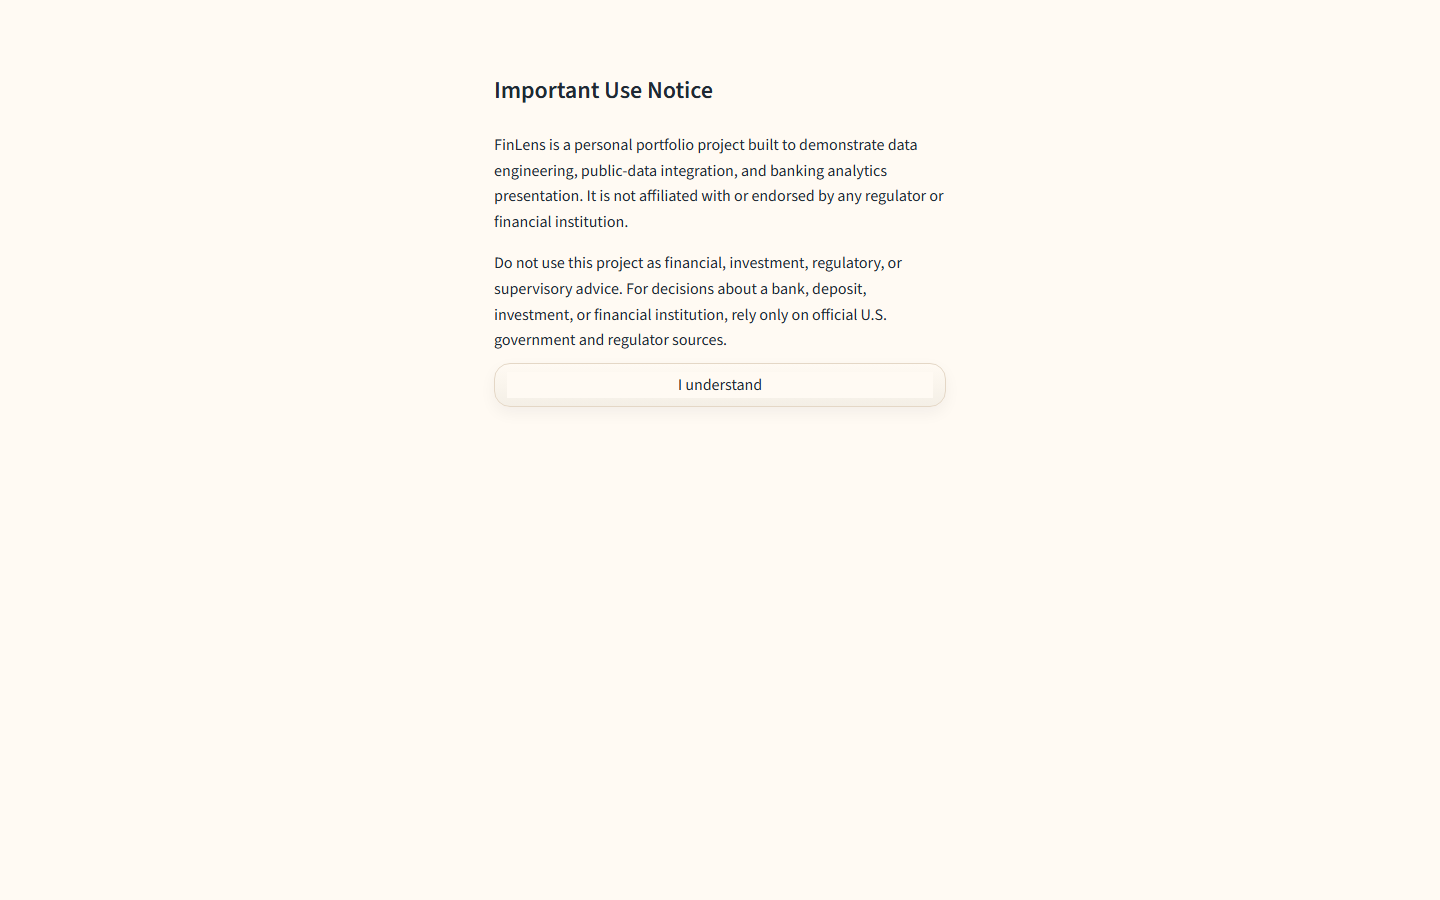
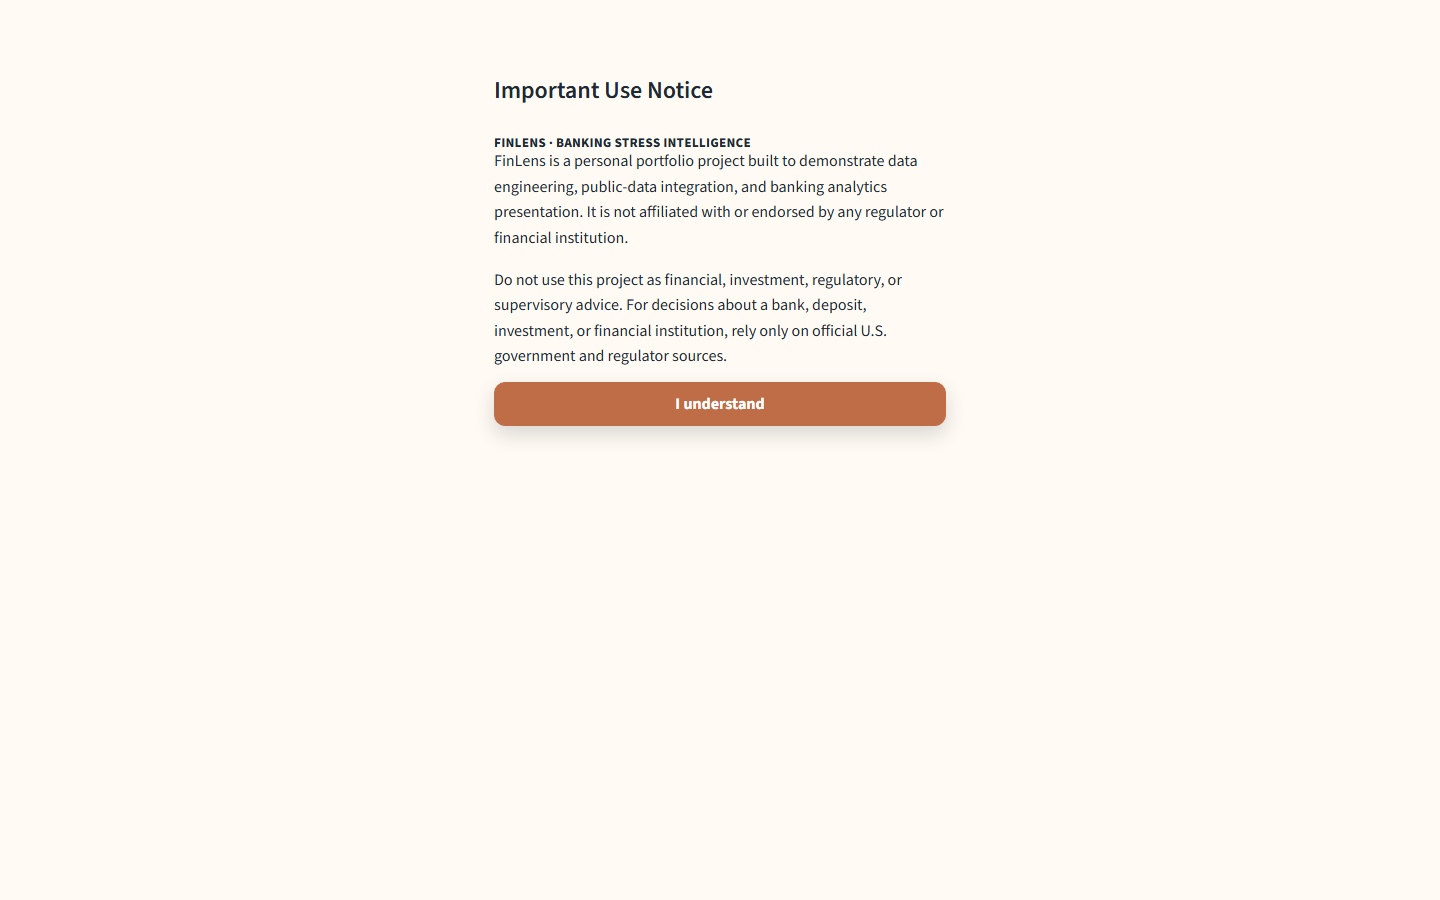
Use-notice gate: filled accent CTA + brand line (first-impression polish)
The "I understand" button was a low-affordance ghost (white-on-white). Root cause: Streamlit's
primary button keeps an inner emotion wrapper with a white fill over the button's accent bg.
Fixed with a dialog-scoped override (accent on the button, transparent on its children, white
text) and added a "FinLens · Banking Stress Intelligence" brand line so the gate reads as
intentional. Dismiss still works (home renders after click).

Changed region(s): [[0.3438, 0.1556, 0.6562, 0.4978]]

diff --git a/streamlit_app/app.py b/streamlit_app/app.py
@@ -118,7 +118,32 @@ st.markdown(
         display: none !important;
     }
     div[role="dialog"] [data-testid="stVerticalBlock"] {
-        gap: .65rem !important;
+        gap: .6rem !important;
+    }
+    /* Filled accent primary CTA (overrides the global ghost button styling with a more
+       specific selector that mirrors the global one, prefixed by the dialog) */
+    div[role="dialog"] div[data-testid="stButton"] > button {
+        background: #bf6d47 !important;
+        border: 1px solid #bf6d47 !important;
+        border-radius: 11px !important;
+        box-shadow: 0 8px 20px rgba(15, 23, 42, .16) !important;
+        margin-top: .2rem;
+    }
+    div[role="dialog"] div[data-testid="stButton"] > button:hover {
+        background: #a85b38 !important; border-color: #a85b38 !important;
+    }
+    div[role="dialog"] div[data-testid="stButton"] > button,
+    div[role="dialog"] div[data-testid="stButton"] > button * {
+        color: #ffffff !important; -webkit-text-fill-color: #ffffff !important;
+        font-weight: 700 !important;
+    }
+    /* children only: clear any inner white fill so the button's accent shows (NOT the button) */
+    div[role="dialog"] div[data-testid="stButton"] > button * {
+        background: transparent !important;
+    }
+    .gate-brand {
+        font-weight: 800; letter-spacing: .02em; color: #bf6d47;
+        font-size: .82rem; text-transform: uppercase; margin-bottom: .1rem;
     }
     </style>
     """,
@@ -128,6 +153,8 @@ st.markdown(
 
 @st.dialog("Important Use Notice", width="small", dismissible=False)
 def _legal_disclaimer() -> None:
+    st.markdown('<div class="gate-brand">FinLens · Banking Stress Intelligence</div>',
+                unsafe_allow_html=True)
     st.markdown(
         """
         FinLens is a personal portfolio project built to demonstrate data engineering,
